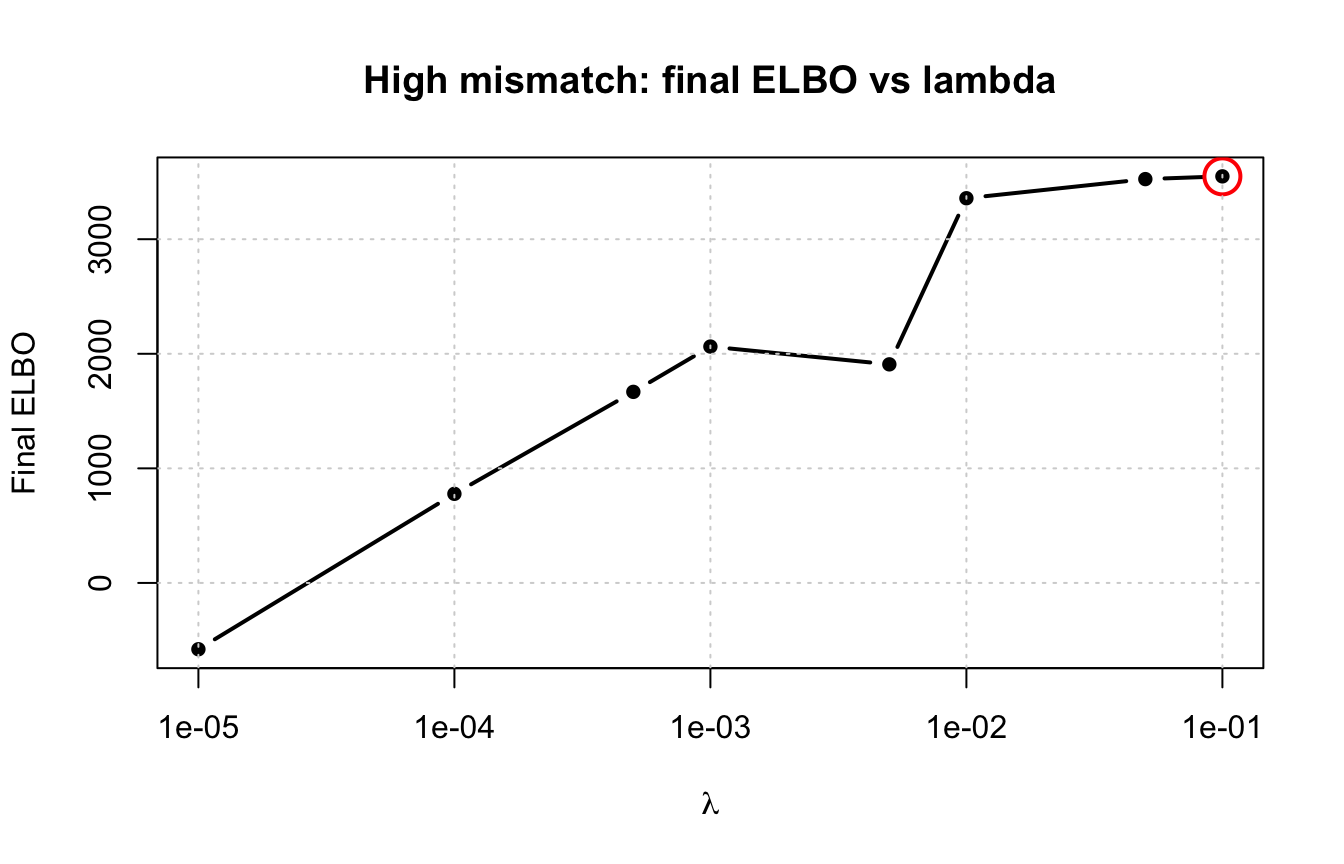
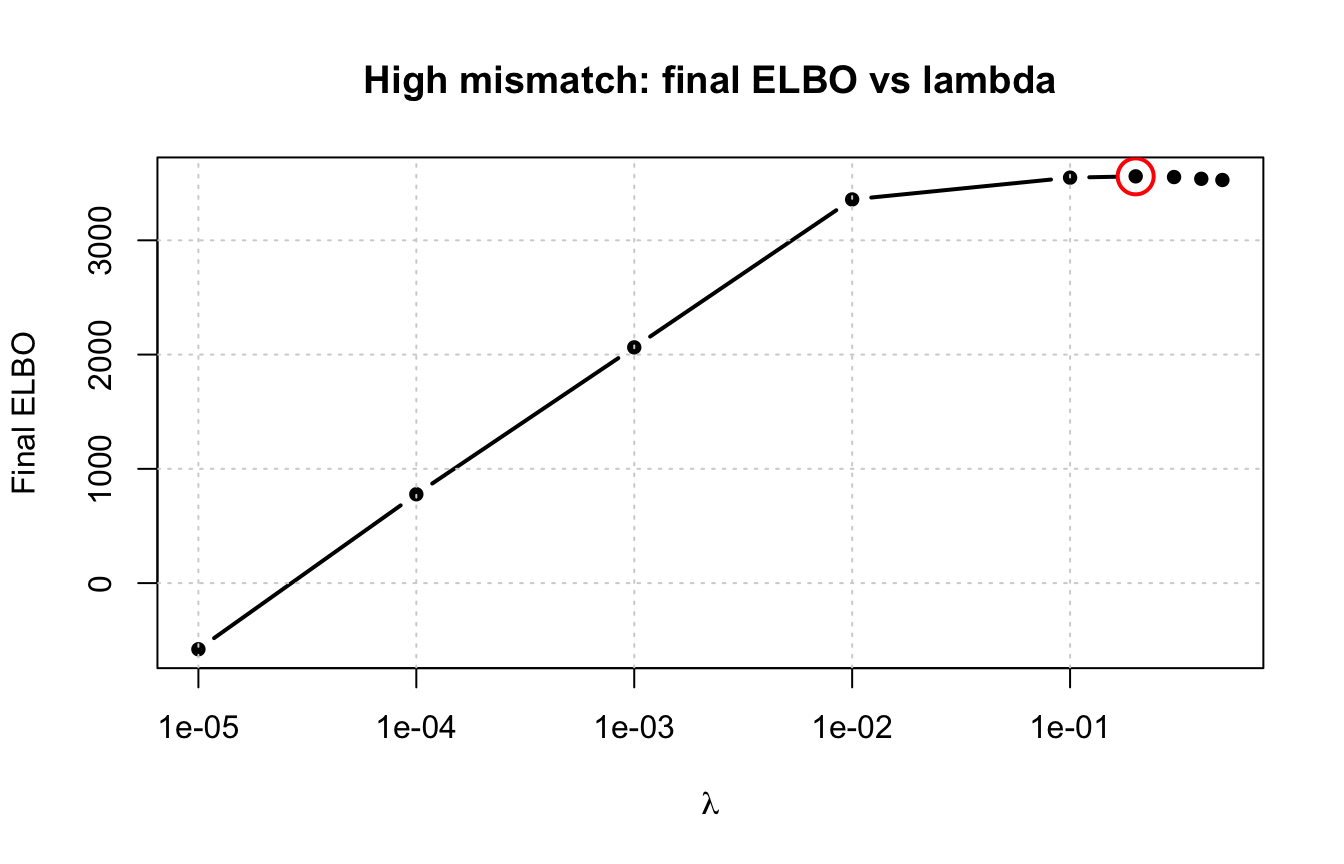
Build site.

diff --git a/docs/choose-lambda-high-mismatch.html b/docs/choose-lambda-high-mismatch.html
@@ -15,7 +15,7 @@
 
 <title>Choosing lambda (high-mismatch case)</title>
 
-<script src="site_libs/header-attrs-2.29/header-attrs.js"></script>
+<script src="site_libs/header-attrs-2.30/header-attrs.js"></script>
 <script src="site_libs/jquery-3.6.0/jquery-3.6.0.min.js"></script>
 <meta name="viewport" content="width=device-width, initial-scale=1" />
 <link href="site_libs/bootstrap-3.3.5/css/cosmo.min.css" rel="stylesheet" />
@@ -408,7 +408,7 @@ title="This is the local directory in which the code in this file was executed."
 This reproducible <a href="https://rmarkdown.rstudio.com">R Markdown</a>
 analysis was created with <a
   href="https://github.com/workflowr/workflowr">workflowr</a> (version
-1.7.1). The <em>Checks</em> tab describes the reproducibility checks
+1.7.2). The <em>Checks</em> tab describes the reproducibility checks
 that were applied when the results were created. The <em>Past
 versions</em> tab lists the development history.
 </p>
@@ -521,15 +521,15 @@ project makes it easier to run your code on other machines.</p>
 <div class="panel panel-default">
 <div class="panel-heading">
 <p class="panel-title">
-<a data-toggle="collapse" data-parent="#workflowr-checks" href="#strongRepositoryversionstrongahrefhttpsgithubcomdodatstatssusierelaxtreebec8a52ef2160491a5f5c36f7efaaa2dab2f2060targetblankbec8a52a">
+<a data-toggle="collapse" data-parent="#workflowr-checks" href="#strongRepositoryversionstrongahrefhttpsgithubcomdodatstatssusierelaxtreed0b71ae91cdb8f5f4e1e1daa3173f4edd14d8e7dtargetblankd0b71aea">
 <span class="glyphicon glyphicon-ok text-success"
 aria-hidden="true"></span> <strong>Repository version:</strong>
-<a href="https://github.com/dodat-stats/susie-relax/tree/bec8a52ef2160491a5f5c36f7efaaa2dab2f2060" target="_blank">bec8a52</a>
+<a href="https://github.com/dodat-stats/susie-relax/tree/d0b71ae91cdb8f5f4e1e1daa3173f4edd14d8e7d" target="_blank">d0b71ae</a>
 </a>
 </p>
 </div>
 <div
[2 lines of base64/hex data omitted]
 class="panel-collapse collapse">
 <div class="panel-body">
 <p>
@@ -539,7 +539,7 @@ reproducibility.
 </p>
 <p>
 The results in this page were generated with repository version
-<a href="https://github.com/dodat-stats/susie-relax/tree/bec8a52ef2160491a5f5c36f7efaaa2dab2f2060" target="_blank">bec8a52</a>.
+<a href="https://github.com/dodat-stats/susie-relax/tree/d0b71ae91cdb8f5f4e1e1daa3173f4edd14d8e7d" target="_blank">d0b71ae</a>.
 See the <em>Past versions</em> tab to see a history of the changes made
 to the R Markdown and HTML files.
 </p>
@@ -554,12 +554,10 @@ were generated:
 </p>
 <pre><code>
 Ignored files:
+    Ignored:    .DS_Store
+    Ignored:    .Rhistory
     Ignored:    .Rproj.user/
-    Ignored:    .claude/
-    Ignored:    analysis/.Rhistory
-
-Unstaged changes:
-    Modified:   analysis/susie-relax-demonstrate.Rmd
+    Ignored:    analysis/.DS_Store
 
 </code></pre>
 <p>
@@ -574,7 +572,6 @@ have uncommitted changes.
 <hr>
 </div>
 <div id="versions" class="tab-pane fade">
-
 <p>
 These are the previous versions of the repository in which changes were
 made to the R Markdown
@@ -606,6 +603,40 @@ Message
 </tr>
 </thead>
 <tbody>
+<tr>
+<td>
+Rmd
+</td>
+<td>
+<a href="https://github.com/dodat-stats/susie-relax/blob/d0b71ae91cdb8f5f4e1e1daa3173f4edd14d8e7d/analysis/choose-lambda-high-mismatch.Rmd" target="_blank">d0b71ae</a>
+</td>
+<td>
+dodat-stats
+</td>
+<td>
[phone redacted]
+</td>
+<td>
+update high-mismatch case
+</td>
+</tr>
+<tr>
+<td>
+html
+</td>
+<td>
+<a href="https://rawcdn.githack.com/dodat-stats/susie-relax/cff4fc94c23e34c72b5cac257580ca2d0bf37fb6/docs/choose-lambda-high-mismatch.html" target="_blank">cff4fc9</a>
+</td>
+<td>
+dodat-stats
+</td>
+<td>
[phone redacted]
+</td>
+<td>
+Build site.
+</td>
+</tr>
 <tr>
 <td>
 Rmd
@@ -819,7 +850,7 @@ not depend on <span class="math inline">\(\lambda\)</span>.</p>
 number="3">
 <h1><span class="header-section-number">3</span> Fit SuSiE-relax over a
 grid of lambda</h1>
-<pre class="r"><code>lambda_grid &lt;- c(1e-5, 1e-4, 5e-4, 1e-3, 5e-3, 1e-2, 5e-2, 1e-1)
+<pre class="r"><code>lambda_grid &lt;- c(1e-5, 1e-4, 1e-3, 1e-2, 0.1, 0.2, 0.3, 0.4, 0.5)
 
 relax_fits &lt;- lapply(lambda_grid, function(lambda) {
   Rbar &lt;- make_rbar(R0, lambda = lambda)
@@ -857,14 +888,15 @@ lambda_summary &lt;- do.call(rbind, lapply(seq_along(lambda_grid), function(i) {
 
 lambda_summary</code></pre>
 <pre><code>  lambda final_elbo n_iter       nu0        tau2 selected_L   causal_pip
-1  1e-05  -578.7899   3000  10.00000 0.076923077          1 0.003, 0.003
+1  1e-05  -578.7944   3000  10.00000 0.076923077          1 0.003, 0.003
 2  1e-04   777.6574   3000  10.00000 0.076923077          1 0.003, 0.003
-3  5e-04  1667.6124   2417  10.00000 0.076923077          1 0.003, 0.003
-4  1e-03  2063.1240   1400  10.00000 0.076923077          1 0.003, 0.004
-5  5e-03  1907.7697   3000 238.48964 0.004140964          2 0.003, 0.003
-6  1e-02  3357.6279   1480  10.00000 0.076923077          1 1.000, 0.004
-7  5e-02  3524.6008    765  10.00000 0.076923077          1 0.972, 0.007
-8  1e-01  3548.5816    736  24.56976 0.036271630          1 0.993, 0.005</code></pre>
+3  1e-03  2063.1240   1400  10.00000 0.076923077          1 0.003, 0.004
+4  1e-02  3357.6279   1480  10.00000 0.076923077          1 1.000, 0.004
+5  1e-01  3548.5816    736  24.56976 0.036271630          1 0.993, 0.005
+6  2e-01  3559.7987    738  60.18752 0.015825910          1 1.000, 0.006
+7  3e-01  3553.7752    952 106.67634 0.009117737          1 1.000, 0.014
+8  4e-01  3538.3390    976 173.74898 0.005657741          1 1.000, 0.101
+9  5e-01  3527.9293    544 892.10511 0.001117187          4 1.000, 0.998</code></pre>
 </div>
 <div id="final-elbo-against-lambda" class="section level1" number="4">
 <h1><span class="header-section-number">4</span> Final ELBO against
@@ -883,11 +915,68 @@ points(
   col = &quot;red&quot;, pch = 1, cex = 2.5, lwd = 2
 )
 grid()</code></pre>
-<p><img src="figure/choose-lambda-high-mismatch.Rmd/elbo-vs-lambda-1.png" width="672" style="display: block; margin: auto;" /></p>
+<p><img src="figure/choose-lambda-high-mismatch.Rmd/elbo-vs-lambda-1.png" alt="" width="672" style="display: block; margin: auto;" /></p>
+<p>
+<button type="button" class="btn btn-default btn-xs btn-workflowr btn-workflowr-fig" data-toggle="collapse" data-target="#fig-elbo-vs-lambda-1">
+Past versions of elbo-vs-lambda-1.png
+</button>
+</p>
+<div id="fig-elbo-vs-lambda-1" class="collapse">
+<div class="table-responsive">
+<table class="table table-condensed table-hover">
+<thead>
+<tr>
+<th>
+Version
+</th>
+<th>
+Author
+</th>
+<th>
+Date
+</th>
+</tr>
+</thead>
+<tbody>
+<tr>
+<td>
+<a href="https://github.com/dodat-stats/susie-relax/blob/cff4fc94c23e34c72b5cac257580ca2d0bf37fb6/docs/figure/choose-lambda-high-mismatch.Rmd/elbo-vs-lambda-1.png" target="_blank">cff4fc9</a>
+</td>
+<td>
+dodat-stats
+</td>
+<td>
[phone redacted]
+</td>
+</tr>
+</tbody>
+</table>
+</div>
+</div>
 <pre class="r"><code>best_lambda</code></pre>
-<pre><code>[1] 0.1</code></pre>
+<pre><code>[1] 0.2</code></pre>
 <p>The red circle marks the <span class="math inline">\(\lambda\)</span>
 with the largest final ELBO.</p>
+<p>Because maximizing the ELBO often favors large <span
+class="math inline">\(\lambda\)</span> here, we zoom in on the
+large-<span class="math inline">\(\lambda\)</span> region <span
+class="math inline">\(\{0.1, 0.2, 0.3, 0.4, 0.5\}\)</span>.</p>
+<pre class="r"><code>zoom_lambdas &lt;- c(0.1, 0.2, 0.3, 0.4, 0.5)
+zoom_summary &lt;- lambda_summary[lambda_summary$lambda %in% zoom_lambdas, ]
+zoom_best_idx &lt;- which.max(zoom_summary$final_elbo)
+
+plot(
+  zoom_summary$lambda, zoom_summary$final_elbo,
+  type = &quot;b&quot;, lwd = 2, pch = 16,
+  xlab = expression(lambda), ylab = &quot;Final ELBO&quot;,
+  main = &quot;High mismatch: final ELBO vs lambda (zoomed)&quot;
+)
+points(
+  zoom_summary$lambda[zoom_best_idx], zoom_summary$final_elbo[zoom_best_idx],
+  col = &quot;red&quot;, pch = 1, cex = 2.5, lwd = 2
+)
+grid()</code></pre>
+<p><img src="figure/choose-lambda-high-mismatch.Rmd/elbo-vs-lambda-zoom-1.png" alt="" width="672" style="display: block; margin: auto;" /></p>
 </div>
 <div id="pip-of-the-best-lambda-vs-susier-on-r0" class="section level1"
 number="5">
@@ -917,10 +1006,10 @@ summary &lt;- rbind(
 summary</code></pre>
 <pre><code>                           method selected_L      nu0               gamma_hat
 1                  susieR with R0          4       NA 336, 579, 697, 322, 405
-2 SuSiE-relax (best lambda = 0.1)          1 24.56976 336, 579, 579, 579, 579
+2 SuSiE-relax (best lambda = 0.2)          1 60.18752 336, 565, 565, 565, 565
                           top_alpha   causal_pip
 1 1.000, 1.000, 0.660, 0.991, 0.327 1.000, 0.000
-2 0.993, 0.001, 0.001, 0.001, 0.001 0.993, 0.005</code></pre>
+2 1.000, 0.001, 0.001, 0.001, 0.001 1.000, 0.006</code></pre>
 <pre class="r"><code>old_par &lt;- par(no.readonly = TRUE)
 par(mfrow = c(1, 2))
 plot_pip(
@@ -935,7 +1024,44 @@ plot_pip(
   beta_true,
   main = sprintf(&quot;SuSiE-relax (lambda = %g)&quot;, best_lambda)
 )</code></pre>
-<p><img src="figure/choose-lambda-high-mismatch.Rmd/best-pip-plots-1.png" width="672" style="display: block; margin: auto;" /></p>
+<p><img src="figure/choose-lambda-high-mismatch.Rmd/best-pip-plots-1.png" alt="" width="672" style="display: block; margin: auto;" /></p>
+<p>
+<button type="button" class="btn btn-default btn-xs btn-workflowr btn-workflowr-fig" data-toggle="collapse" data-target="#fig-best-pip-plots-1">
+Past versions of best-pip-plots-1.png
+</button>
+</p>
+<div id="fig-best-pip-plots-1" class="collapse">
+<div class="table-responsive">
+<table class="table table-condensed table-hover">
+<thead>
+<tr>
+<th>
+Version
+</th>
+<th>
+Author
+</th>
+<th>
+Date
+</th>
+</tr>
+</thead>
+<tbody>
+<tr>
+<td>
+<a href="https://github.com/dodat-stats/susie-relax/blob/cff4fc94c23e34c72b5cac257580ca2d0bf37fb6/docs/figure/choose-lambda-high-mismatch.Rmd/best-pip-plots-1.png" target="_blank">cff4fc9</a>
+</td>
+<td>
+dodat-stats
+</td>
+<td>
[phone redacted]
+</td>
+</tr>
+</tbody>
+</table>
+</div>
+</div>
 <pre class="r"><code>par(old_par)</code></pre>
 <br>
 <p>
@@ -946,13 +1072,13 @@ Session information
 </p>
 <div id="workflowr-sessioninfo" class="collapse">
 <pre class="r"><code>sessionInfo()</code></pre>
-<pre><code>R version 4.3.2 (2023-10-31)
-Platform: aarch64-apple-darwin20 (64-bit)
-Running under: macOS 26.5.1
+<pre><code>R version 4.5.2 (2025-10-31)
+Platform: aarch64-apple-darwin20
+Running under: macOS Tahoe 26.5.1
 
 Matrix products: default
 BLAS:   /System/Library/Frameworks/Accelerate.framework/Versions/A/Frameworks/vecLib.framework/Versions/A/libBLAS.dylib 
-LAPACK: /Library/Frameworks/R.framework/Versions/4.3-arm64/Resources/lib/libRlapack.dylib;  LAPACK version 3.11.0
+LAPACK: /Library/Frameworks/R.framework/Versions/4.5-arm64/Resources/lib/libRlapack.dylib;  LAPACK version 3.12.1
 
 locale:
 [1] en_US.UTF-8/en_US.UTF-8/en_US.UTF-8/C/en_US.UTF-8/en_US.UTF-8
@@ -964,25 +1090,30 @@ attached base packages:
 [1] stats     graphics  grDevices utils     datasets  methods   base     
 
 other attached packages:
-[1] susieR_0.14.2   workflowr_1.7.1
+[1] susieR_0.14.2   workflowr_1.7.2
 
 loaded via a namespace (and not attached):
  [1] sass_0.4.10        generics_0.1.4     stringi_1.8.7      lattice_0.22-7    
- [5] digest_0.6.39      magrittr_2.0.3     evaluate_1.0.5     grid_4.3.2        
+ [5] digest_0.6.39      magrittr_2.0.4     evaluate_1.0.5     grid_4.5.2        
  [9] RColorBrewer_1.1-3 fastmap_1.2.0      plyr_1.8.9         rprojroot_2.1.1   
-[13] jsonlite_2.0.0     Matrix_1.6-1.1     processx_3.8.6     whisker_0.4.1     
-[17] reshape_0.8.10     ps_1.9.1           mixsqp_0.3-54      promises_1.5.0    
-[21] httr_1.4.7         scales_1.4.0       jquerylib_0.1.4    cli_3.6.5         
-[25] rlang_1.1.6        crayon_1.5.3       withr_3.0.2        cachem_1.1.0      
-[29] yaml_2.3.10        otel_0.2.0         tools_4.3.2        dplyr_1.1.4       
-[33] ggplot2_3.5.2      httpuv_1.6.16      reticulate_1.42.0  png_0.1-8         
-[37] vctrs_0.6.5        R6_2.6.1           matrixStats_1.5.0  lifecycle_1.0.4   
-[41] git2r_0.36.2       stringr_1.6.0      fs_1.6.6           irlba_2.3.5.1     
-[45] pkgconfig_2.0.3    callr_3.7.6        pillar_1.11.1      bslib_0.9.0       
-[49] later_1.4.2        gtable_0.3.6       glue_1.8.0         Rcpp_1.1.0        
-[53] xfun_0.52          tibble_3.3.0       tidyselect_1.2.1   rstudioapi_0.17.1 
-[57] knitr_1.50         farver_2.1.2       htmltools_0.5.8.1  rmarkdown_2.29    
-[61] compiler_4.3.2     getPass_0.2-4     </code></pre>
+[13] jsonlite_2.0.0     Matrix_1.7-4       processx_3.8.6     whisker_0.4.1     
+[17] reshape_0.8.10     mixsqp_0.3-54      ps_1.9.1           promises_1.5.0    
+[21] httr_1.4.8         scales_1.4.0       jquerylib_0.1.4    cli_3.6.6         
+[25] rlang_1.2.0        crayon_1.5.3       withr_3.0.2        cachem_1.1.0      
+[29] yaml_2.3.12        otel_0.2.0         tools_4.5.2        dplyr_1.2.0       
+[33] ggplot2_4.0.2      httpuv_1.6.17      reticulate_1.46.0  png_0.1-9         
+[37] vctrs_0.7.1        R6_2.6.1           matrixStats_1.5.0  lifecycle_1.0.5   
+[41] git2r_0.36.2       stringr_1.6.0      fs_2.1.0           irlba_2.3.7       
+[45] pkgconfig_2.0.3    callr_3.7.6        pillar_1.11.1      bslib_0.10.0      
+[49] later_1.4.8        gtable_0.3.6       glue_1.8.0         Rcpp_1.1.1        
+[53] xfun_0.56          tibble_3.3.1       tidyselect_1.2.1   rstudioapi_0.18.0 
+[57] knitr_1.51         farver_2.1.2       htmltools_0.5.9    rmarkdown_2.30    
+[61] compiler_4.5.2     getPass_0.2-4      S7_0.2.1          </code></pre>
+</div>
+</div>
+</div>
+</div>
+</div>
 </div>
 </div>
 

diff --git a/docs/index.html b/docs/index.html
@@ -357,15 +357,15 @@ results.</p>
 <div class="panel panel-default">
 <div class="panel-heading">
 <p class="panel-title">
-<a data-toggle="collapse" data-parent="#workflowr-checks" href="#strongRepositoryversionstrongahrefhttpsgithubcomdodatstatssusierelaxtree24cc2ceaa3e04293564aaf37907d07b5eaba262etargetblank24cc2cea">
+<a data-toggle="collapse" data-parent="#workflowr-checks" href="#strongRepositoryversionstrongahrefhttpsgithubcomdodatstatssusierelaxtreed0b71ae91cdb8f5f4e1e1daa3173f4edd14d8e7dtargetblankd0b71aea">
 <span class="glyphicon glyphicon-ok text-success"
 aria-hidden="true"></span> <strong>Repository version:</strong>
-<a href="https://github.com/dodat-stats/susie-relax/tree/24cc2ceaa3e04293564aaf37907d07b5eaba262e" target="_blank">24cc2ce</a>
+<a href="https://github.com/dodat-stats/susie-relax/tree/d0b71ae91cdb8f5f4e1e1daa3173f4edd14d8e7d" target="_blank">d0b71ae</a>
 </a>
 </p>
 </div>
 <div
[2 lines of base64/hex data omitted]
 class="panel-collapse collapse">
 <div class="panel-body">
 <p>
@@ -375,7 +375,7 @@ reproducibility.
 </p>
 <p>
 The results in this page were generated with repository version
-<a href="https://github.com/dodat-stats/susie-relax/tree/24cc2ceaa3e04293564aaf37907d07b5eaba262e" target="_blank">24cc2ce</a>.
+<a href="https://github.com/dodat-stats/susie-relax/tree/d0b71ae91cdb8f5f4e1e1daa3173f4edd14d8e7d" target="_blank">d0b71ae</a>.
 See the <em>Past versions</em> tab to see a history of the changes made
 to the R Markdown and HTML files.
 </p>
@@ -394,9 +394,6 @@ Ignored files:
     Ignored:    .Rhistory
     Ignored:    .Rproj.user/
     Ignored:    analysis/.DS_Store
-
-Unstaged changes:
-    Modified:   analysis/choose-lambda-high-mismatch.Rmd
 
 </code></pre>
 <p>
@@ -440,6 +437,23 @@ Message
 </tr>
 </thead>
 <tbody>
+<tr>
+<td>
+html
+</td>
+<td>
+<a href="https://rawcdn.githack.com/dodat-stats/susie-relax/a02ceb878ffdb45e93ac1f9a02c16b65af0d3c78/docs/index.html" target="_blank">a02ceb8</a>
+</td>
+<td>
+dodat-stats
+</td>
+<td>
[phone redacted]
+</td>
+<td>
+Build site.
+</td>
+</tr>
 <tr>
 <td>
 html